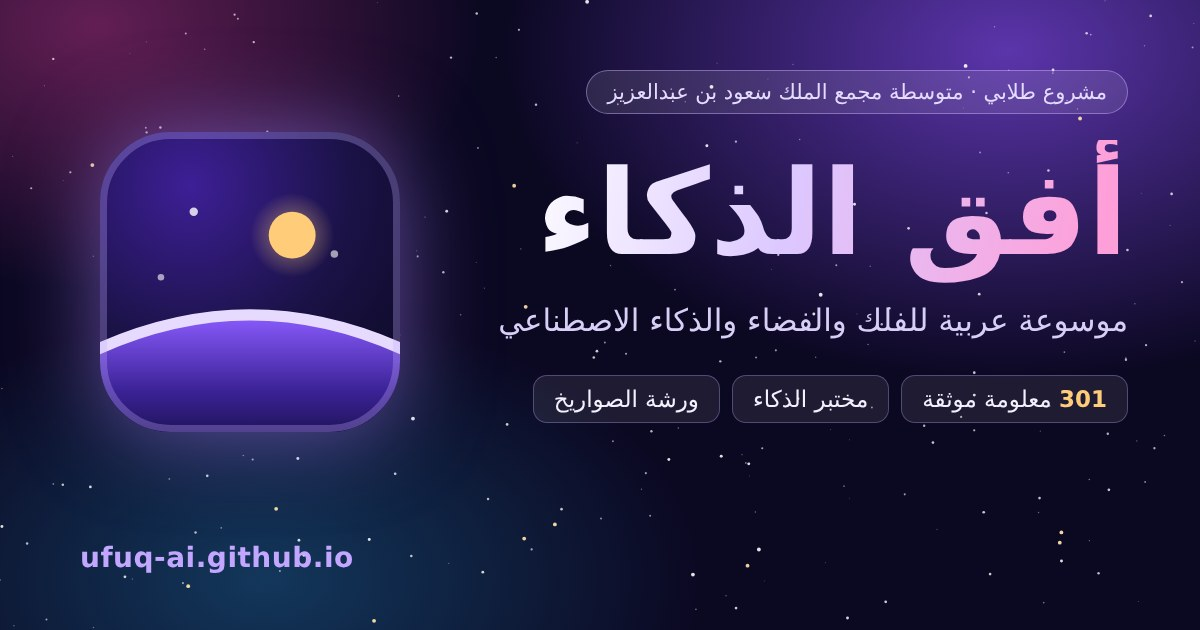
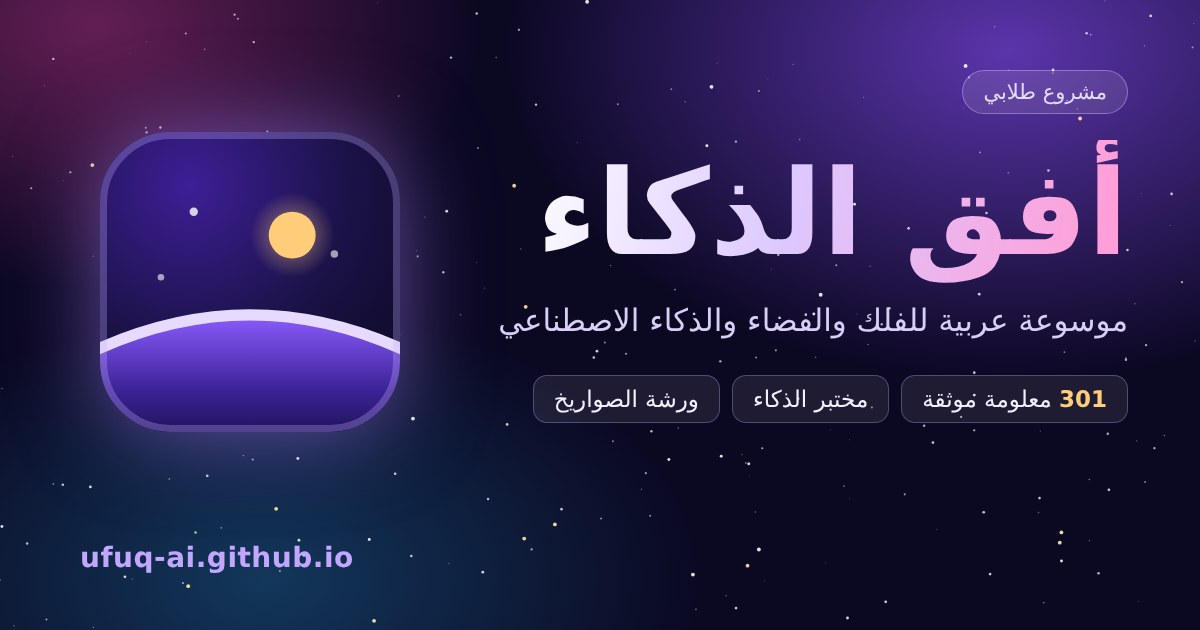
صورة معاينة الرابط (og.jpg) بدون اسم المدرسة
Claude-Session: https://claude.ai/code/session_018qLWKqeGc8R2Ny3TV4sAbf

Changed region(s): [[0.4933, 0.0905, 0.8017, 0.181]]

diff --git a/tools/brand/og.html b/tools/brand/og.html
@@ -14,7 +14,7 @@ p{font-size:31px;line-height:1.6;color:#d8cff7;margin-top:8px}
 .logo{position:absolute;left:100px;top:132px;width:300px;height:300px;filter:drop-shadow(0 0 44px rgba(170,130,255,.55))}
 </style></head><body><canvas id="c" width="1200" height="630"></canvas>
 <svg class="logo" viewBox="0 0 64 64"><defs><radialGradient id="lg-bg" cx="30%" cy="18%" r="100%"><stop offset="0" stop-color="#3d1f96"/><stop offset=".55" stop-color="#1a1245"/><stop offset="1" stop-color="#0b0822"/></radialGradient><linearGradient id="lg-pl" x1="0" y1="0" x2="0" y2="1"><stop offset="0" stop-color="#8b5cff"/><stop offset=".6" stop-color="#3b2296"/><stop offset="1" stop-color="#1b1150"/></linearGradient><radialGradient id="lg-gl"><stop offset="0" stop-color="#ffcd7a" stop-opacity=".55"/><stop offset="1" stop-color="#ffcd7a" stop-opacity="0"/></radialGradient><clipPath id="lg-cl"><rect width="64" height="64" rx="15"/></clipPath></defs><rect width="64" height="64" rx="15" fill="url(#lg-bg)"/><g clip-path="url(#lg-cl)"><circle cx="20" cy="17" r=".9" fill="#fff" opacity=".8"/><circle cx="50" cy="26" r=".8" fill="#fff" opacity=".6"/><circle cx="13" cy="31" r=".7" fill="#fff" opacity=".6"/><circle cx="41" cy="22" r="9" fill="url(#lg-gl)"/><circle cx="41" cy="22" r="5" fill="#ffcd7a"/><path d="M-2 47Q32 31 66 47V66H-2z" fill="url(#lg-pl)"/><path d="M-2 47Q32 31 66 47" fill="none" stroke="#e6dbff" stroke-width="2.4"/></g><rect x=".75" y=".75" width="62.5" height="62.5" rx="14.3" fill="none" stroke="#c4abff" stroke-opacity=".3" stroke-width="1.5"/></svg>
-<div class="txt"><span class="badge">مشروع طلابي · متوسطة مجمع الملك سعود بن عبدالعزيز</span>
+<div class="txt"><span class="badge">مشروع طلابي</span>
 <h1>أفق الذكاء</h1>
 <p>موسوعة عربية للفلك والفضاء والذكاء الاصطناعي</p>
 <div class="chips"><span><b>301</b> معلومة موثقة</span><span>مختبر الذكاء</span><span>ورشة الصواريخ</span></div></div>
